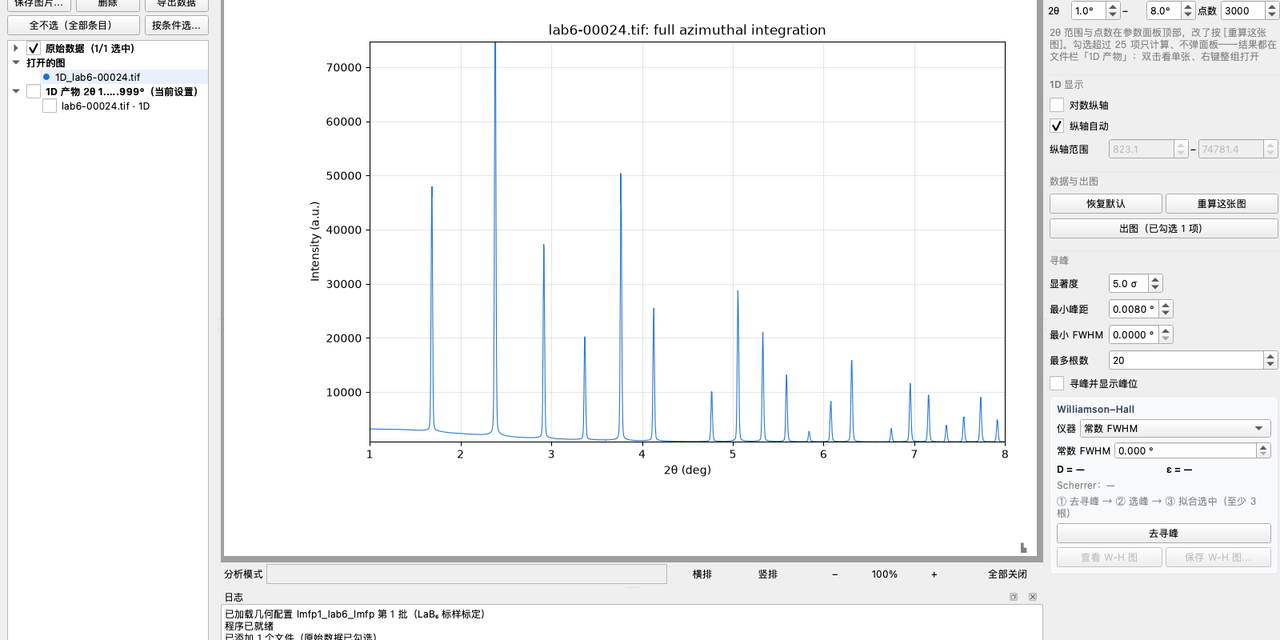
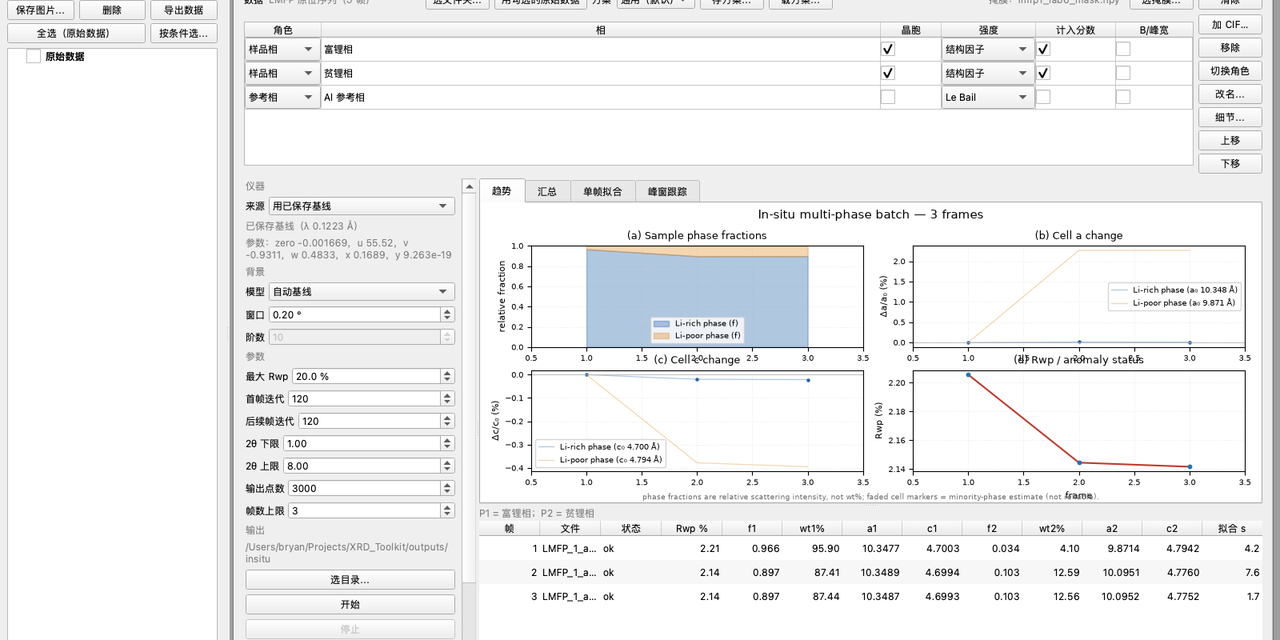
docs: refresh the social preview image

Changed region(s): [[0.0, 0.0, 1.0, 1.0]]

diff --git a/docs/index.html b/docs/index.html
@@ -20,7 +20,7 @@
 <meta property="og:image" content="https://xyyzzc3.github.io/xrd_toolkit/assets/og-preview.png">
 <meta property="og:image:width" content="1280">
 <meta property="og:image:height" content="640">
-<meta property="og:image:alt" content="XRD Toolkit 桌面界面与 LaB6 全谱拟合">
+<meta property="og:image:alt" content="XRD Toolkit 原位通用多相工作台：相表、紧凑结果表与趋势">
 <meta property="og:locale" content="zh_CN">
 <meta name="twitter:card" content="summary_large_image">
 <meta name="twitter:title" content="XRD Toolkit — 二维 XRD 数据处理工具箱">
